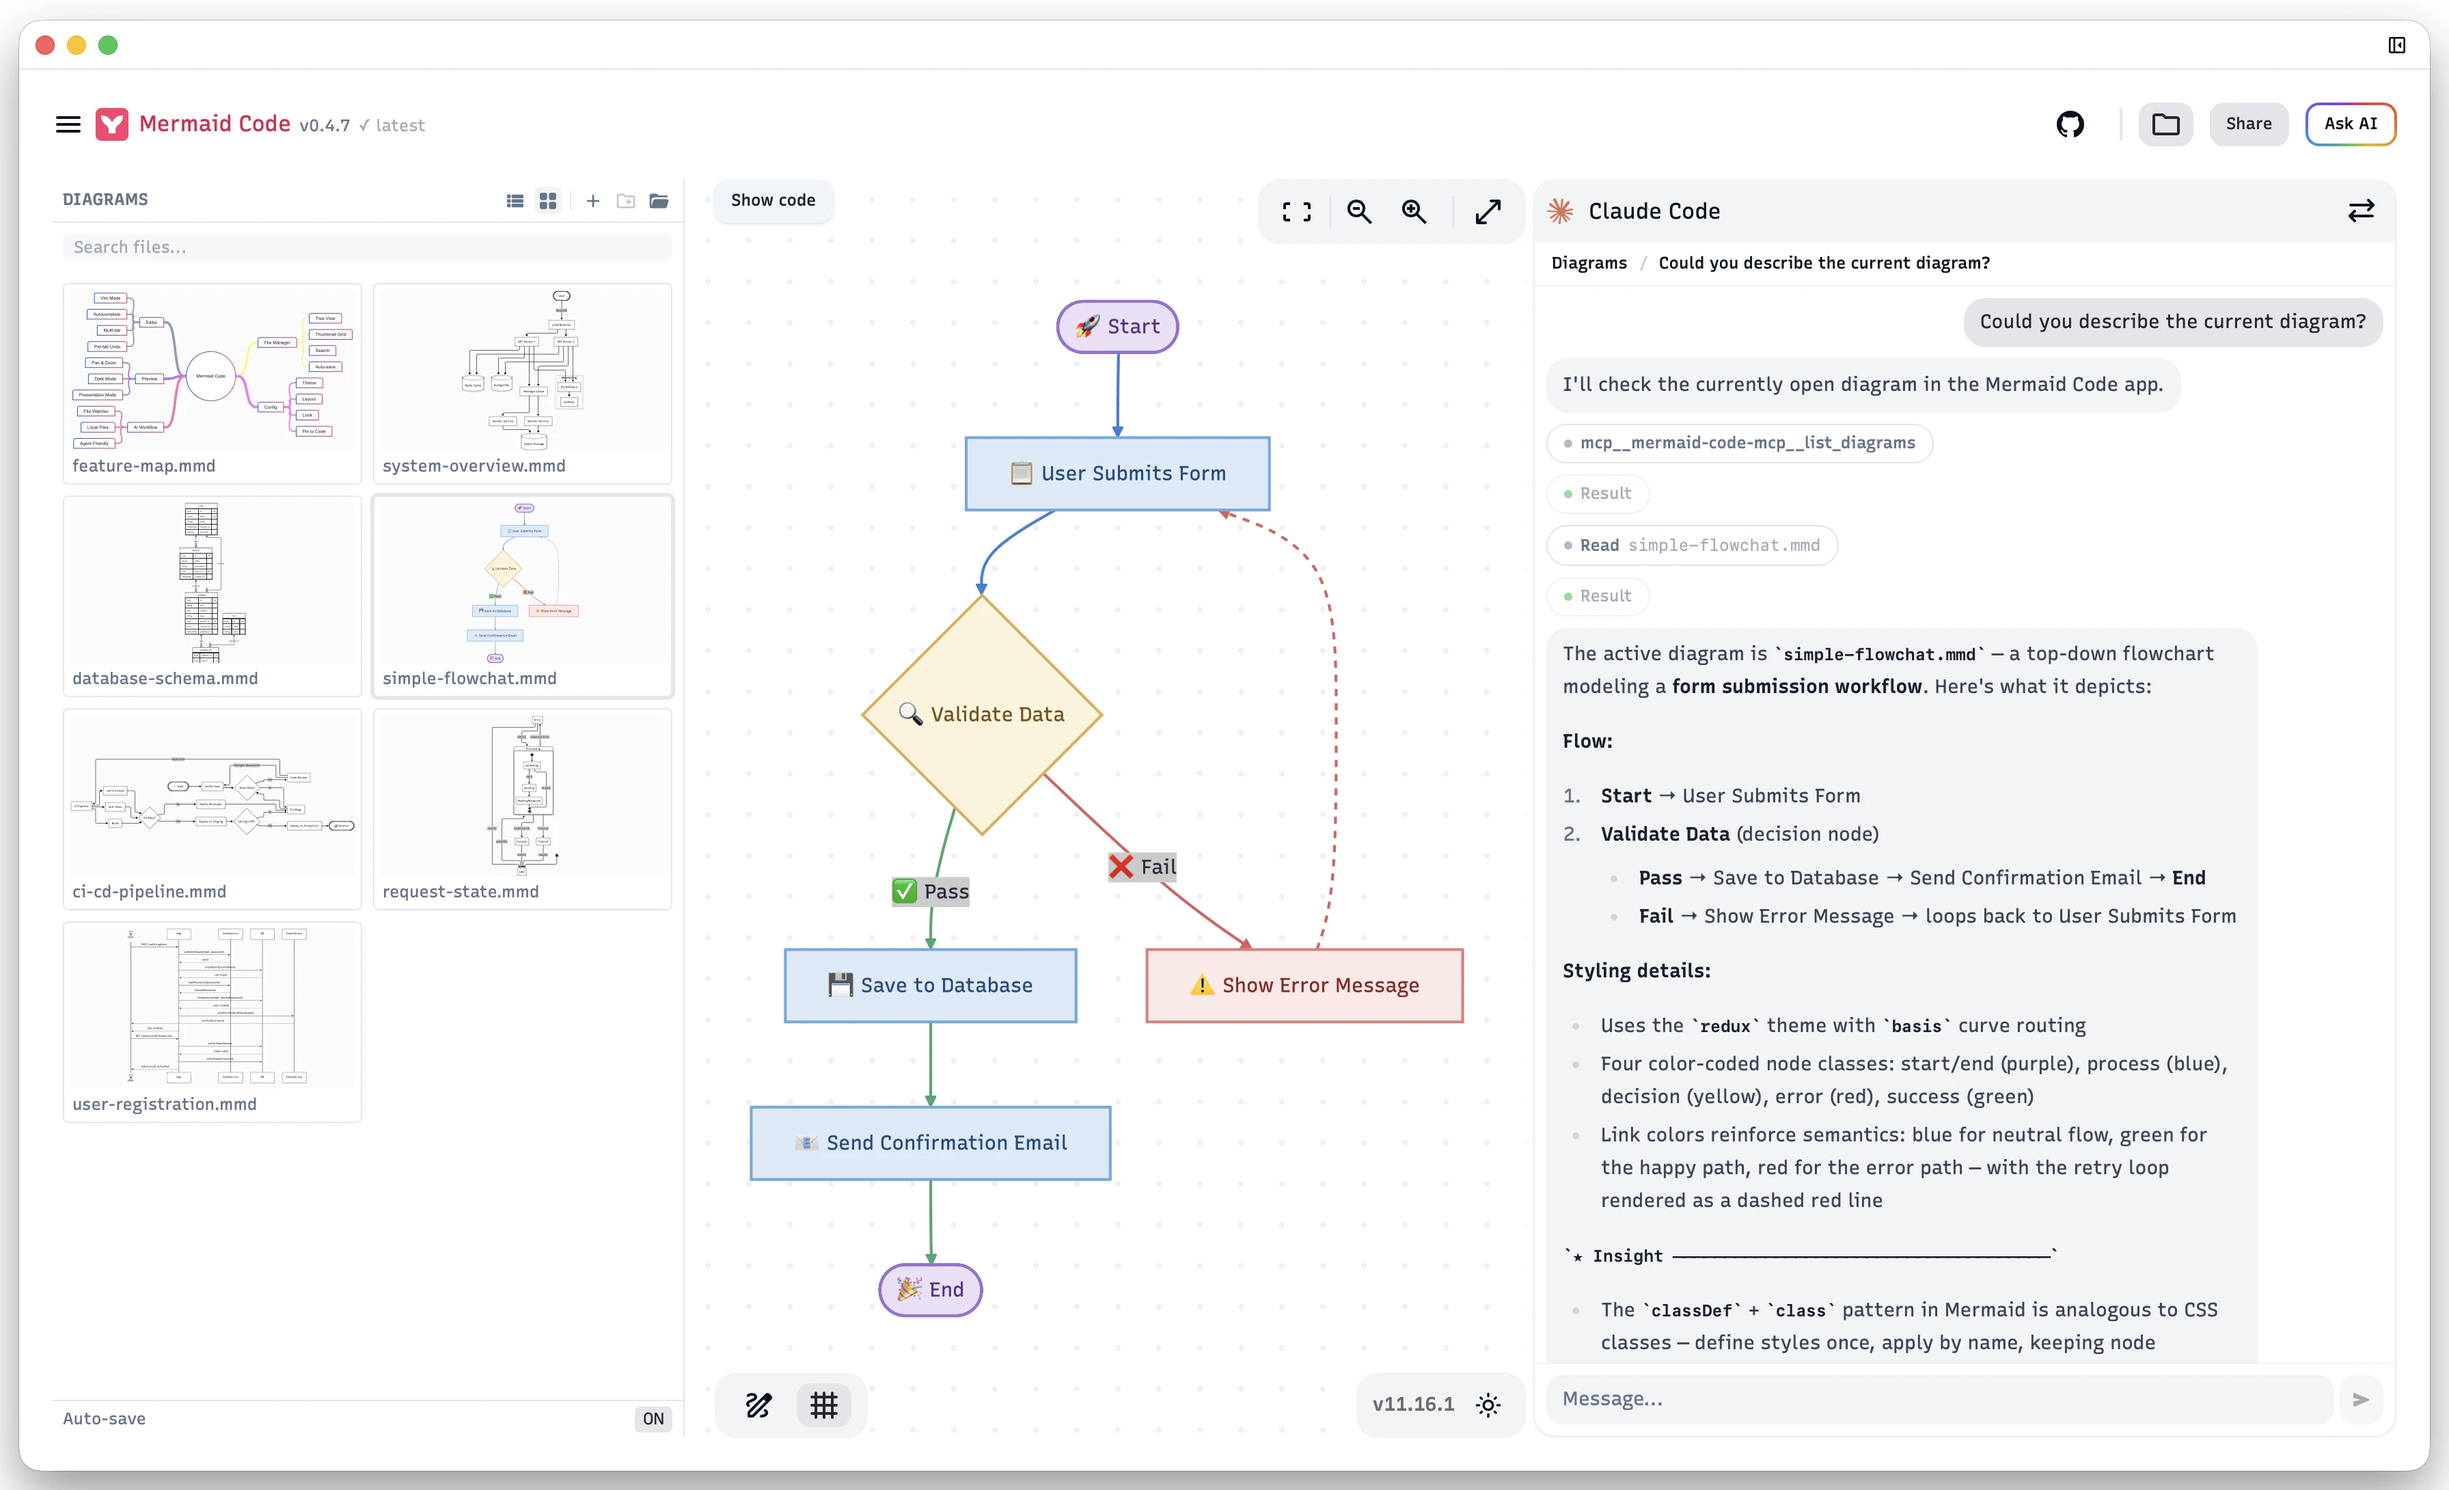
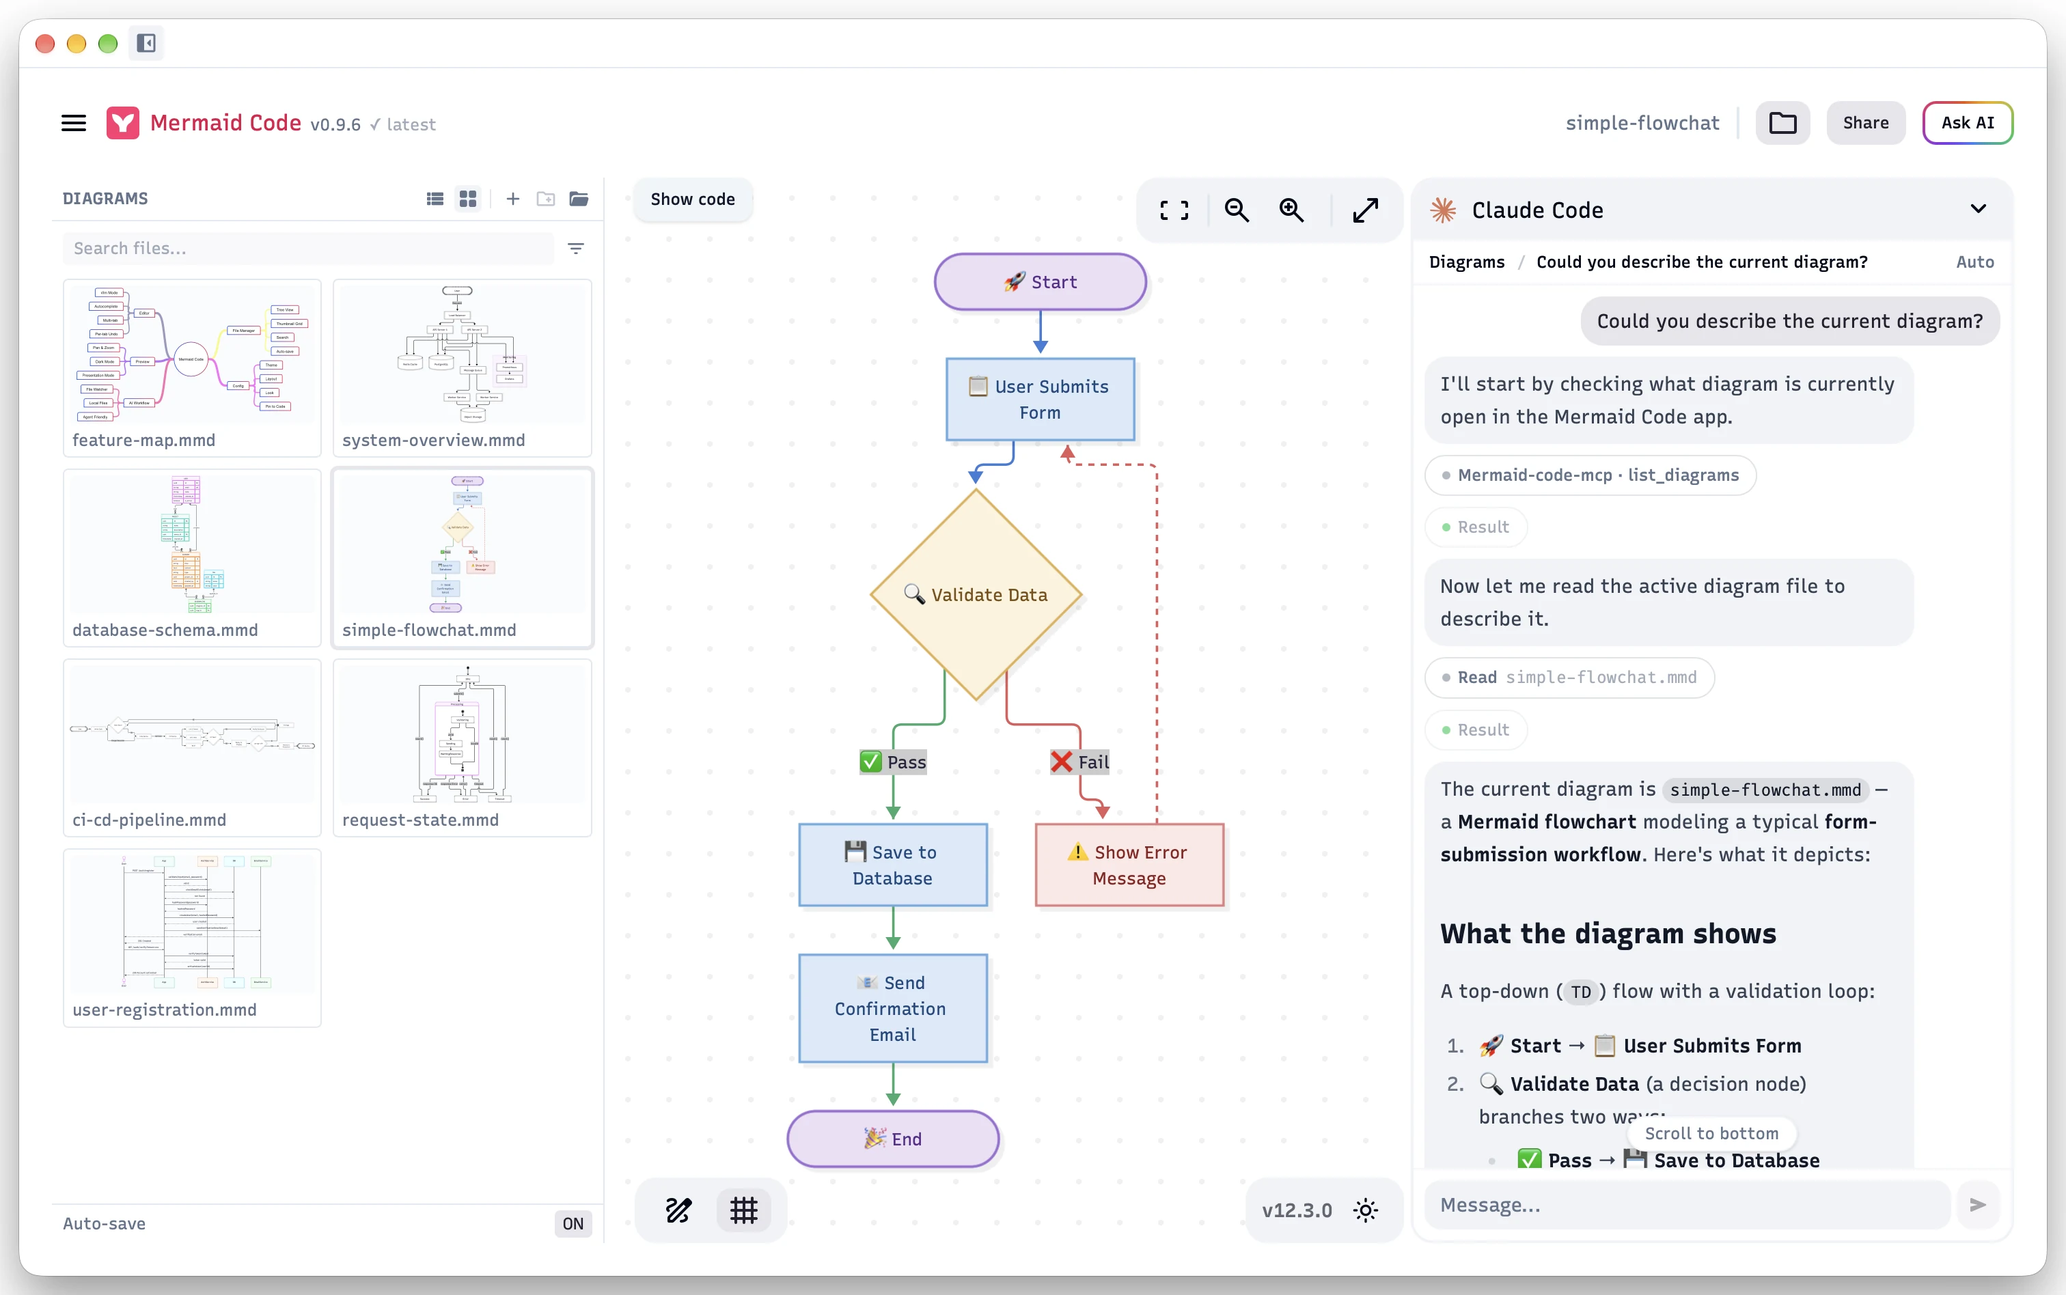
feat(site): update showcase screenshots with dark theme support

diff --git a/site/styles.css b/site/styles.css
@@ -1010,11 +1010,20 @@ html[data-theme='dark'] .workflow-img-wrap img {
   border-radius: var(--r-md);
   border: 1px solid var(--line);
   overflow: hidden;
-  background: #ffffff;
+  background: var(--surface);
 }
 .showcase-viewport--hero {
   border: none;
   border-radius: 0;
+}
+.showcase-pic--dark {
+  display: none;
+}
+html[data-theme='dark'] .showcase-pic--light {
+  display: none;
+}
+html[data-theme='dark'] .showcase-pic--dark {
+  display: block;
 }
 .showcase-viewport img {
   width: 100%;
@@ -1022,20 +1031,17 @@ html[data-theme='dark'] .workflow-img-wrap img {
   transition: transform 0.45s cubic-bezier(0.22, 1, 0.36, 1);
   transform-origin: center center;
 }
-html[data-theme='dark'] .showcase-viewport img {
-  filter: brightness(0.95);
-}
 .showcase-viewport[data-focus='sidebar'] img {
-  transform: scale(1.65);
-  transform-origin: 12% 38%;
+  transform: scale(1.55);
+  transform-origin: 2% 28%;
 }
 .showcase-viewport[data-focus='preview'] img {
   transform: scale(1.48);
   transform-origin: 48% 48%;
 }
 .showcase-viewport[data-focus='agent'] img {
-  transform: scale(1.62);
-  transform-origin: 88% 42%;
+  transform: scale(1.52);
+  transform-origin: 99% 24%;
 }
 
 /* ==========================================================================

diff --git a/site/index.html b/site/index.html
@@ -138,9 +138,13 @@
           </div>
 
           <div class="showcase-viewport showcase-viewport--hero" id="showcase-viewport" data-focus="full">
-            <picture>
-              <source srcset="showcase.webp" type="image/webp" />
-              <img src="showcase.png" alt="Mermaid Code desktop app showing diagram thumbnails, live SVG flowchart preview, and built-in Claude Code sidebar" width="3584" height="2182" fetchpriority="high" />
+            <picture class="showcase-pic showcase-pic--light">
+              <source srcset="showcase.webp?v=2" type="image/webp" />
+              <img src="showcase.png?v=2" alt="Mermaid Code desktop app showing diagram thumbnails, live SVG flowchart preview, and built-in Claude Code sidebar" width="3024" height="1896" fetchpriority="high" />
+            </picture>
+            <picture class="showcase-pic showcase-pic--dark">
+              <source srcset="showcase-dark.webp" type="image/webp" />
+              <img src="showcase-dark.png" alt="Mermaid Code desktop app in dark mode showing diagram thumbnails, live SVG flowchart preview, and built-in Claude Code sidebar" width="3024" height="1896" loading="lazy" />
             </picture>
           </div>
         </div>
